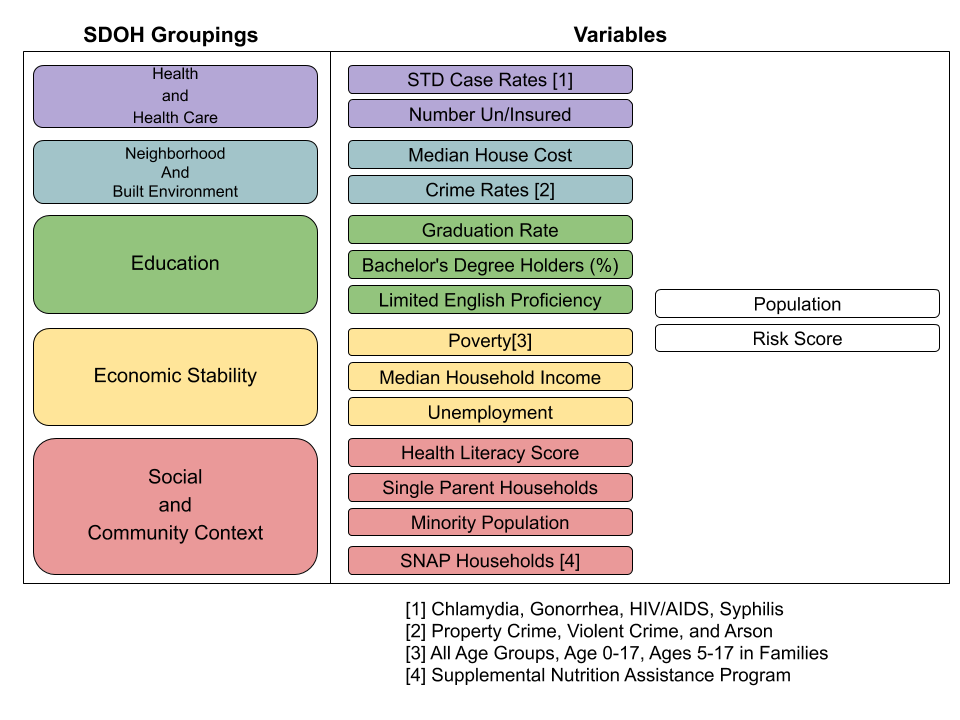
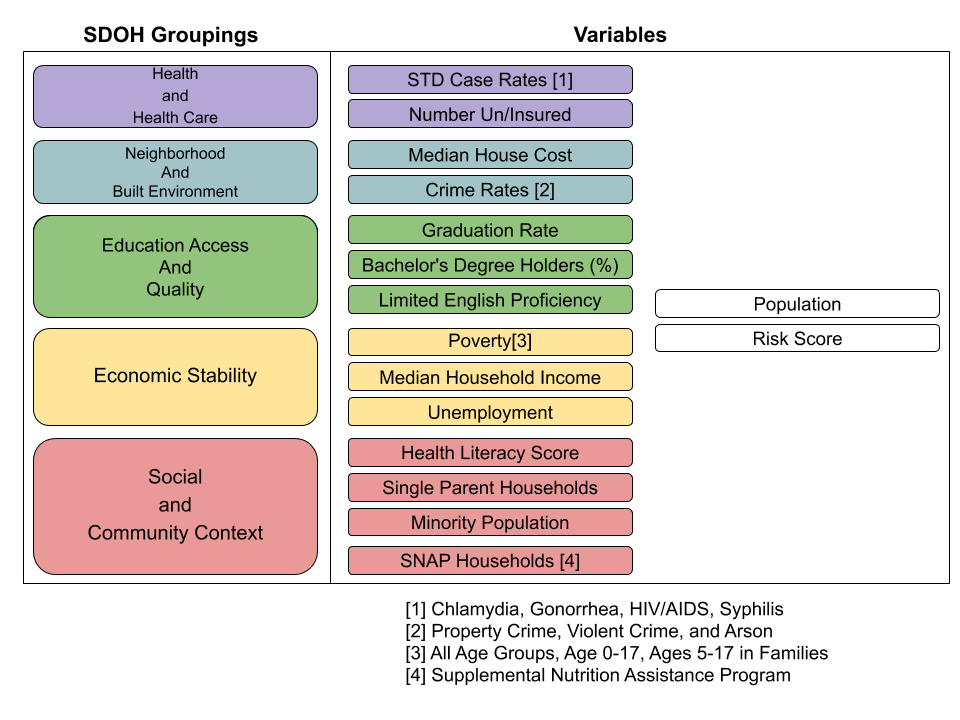
Updated dashboard and about page

Changed region(s): [[0.0312, 0.3361, 0.3438, 0.4583]]

diff --git a/data.html b/data.html
@@ -70,11 +70,11 @@
       <div class="col-md-4 mb-5">
         <div class="card h-100">
           <div class="card-body">
-            <h2 class="card-title">Education</h2>
+            <h2 class="card-title">Education Access and Quality</h2>
             <p class="card-text">The connection of education to health and wellbeing. This domain includes key issues such as graduating from high school, enrollment in higher education, educational attainment in general, language and literacy, and early childhood education and development.</p>
           </div>
           <div class="card-footer">
-            <a href="#" class="btn btn-primary btn-sm">More Info</a>
+            <a href="https://health.gov/healthypeople/objectives-and-data/browse-objectives/education-access-and-quality" class="btn btn-primary btn-sm">More Info</a>
           </div>
         </div>
       </div>
@@ -87,7 +87,7 @@
             <p class="card-text">The connection between characteristics of the contexts within which people live, learn, work, and play, and their health and wellbeing. This includes topics like cohesion within a community, civic participation, discrimination, conditions in the workplace, and incarceration.</p>
           </div>
           <div class="card-footer">
-            <a href="#" class="btn btn-primary btn-sm">More Info</a>
+            <a href="https://health.gov/healthypeople/objectives-and-data/browse-objectives/social-and-community-context" class="btn btn-primary btn-sm">More Info</a>
           </div>
         </div>
       </div>
@@ -104,7 +104,7 @@
             <p class="card-text">The connection between the financial resources people have – income, cost of living, and socioeconomic status – and their health. This area includes key issues such as poverty, employment, food security, and housing stability.</p>
         </div>
                       <div class="card-footer">
-            <a href="#" class="btn btn-primary btn-sm">More Info</a>
+            <a href="https://health.gov/healthypeople/objectives-and-data/browse-objectives/economic-stability" class="btn btn-primary btn-sm">More Info</a>
           </div>
         </div>
         </div>
@@ -116,7 +116,7 @@
             <p class="card-text">The connection between where a person lives – housing, neighborhood, and environment – and their health and wellbeing. This includes topics like quality of housing, access to transportation, availability of healthy foods, air and water quality, and neighborhood crime and violence.</p>
         </div>
                       <div class="card-footer">
-            <a href="#" class="btn btn-primary btn-sm">More Info</a>
+            <a href="https://health.gov/healthypeople/objectives-and-data/browse-objectives/neighborhood-and-built-environment" class="btn btn-primary btn-sm">More Info</a>
           </div>
         </div>
         </div>
@@ -145,7 +145,7 @@
     <tr>
       <th scope="row">Population</th>
       <td colspan="4">Census, July 1, 2019.</td>
-      <td><a href="https://www.census.gov/data/datasets/time-series/demo/popest/2010s-counties-total.html">Link</a></td>
+      <td><a href="https://www.census.gov/data/datasets/time-series/demo/popest/2010s-counties-total.html" class="btn btn-outline-secondary">Link</a></td>
     </tr>  
   </tbody>
 
@@ -155,12 +155,12 @@
    <tr>
       <th scope="row">Unemployment</th>
       <td colspan="4">Unemployment rate, not seasonally adjusted for 2019 annual report.</td>
-      <td><a href="https://data.bls.gov/lausmap/showMap.jsp;jsessionid=DE5A3D22A134FBFC528FD1014C9EA715._t3_06v" class="btn btn-outline-secondary"></a></td>
+      <td><a href="https://data.bls.gov/lausmap/showMap.jsp;jsessionid=DE5A3D22A134FBFC528FD1014C9EA715._t3_06v" class="btn btn-outline-secondary">Link</a></td>
     </tr>   
       <tr>
       <th scope="row">Uninsured</th>
       <td colspan="4">Percentage of population under age 65 without health insurance.</td>
-      <td><a href="https://www.countyhealthrankings.org/app/virginia/2020/measure/factors/85/data?sort=desc-3" class="btn btn-outline-secondary">&nbsp;</a></td>
+      <td><a href="https://www.countyhealthrankings.org/app/virginia/2020/measure/factors/85/data?sort=desc-3" class="btn btn-outline-secondary">Link</a></td>
     </tr>
       
     <tr>
@@ -243,12 +243,7 @@ The Virginia On-Time Graduation Rate defines graduates as students who earn Adva
     </div>
     <!-- /.row -->
 
-    <!-- Call to Action Well -->
-    <div class="card text-white bg-secondary my-5 py-4 text-center">
-      <div class="card-body">
-        <p class="text-white m-0">The key to understanding yourself is to understand your community!</p>
-      </div>
-    </div>
+
 
     <!-- Content Row -->
 

diff --git a/about.html b/about.html
@@ -52,9 +52,8 @@
 
   <!-- Page Content -->
   <div class="container">
-      <h2>(COMMUNITY RESOURCES) </h2>
-      <p> Link various SNAP resources, education tutoring, etc.</p>
-      <p>http://vafoodbanks.wpengine.com/virginia-food-bank-locator/ </p>
+      <h2>Goals</h2>
+      <p>The objective of this webpage is to allow users to see a simple visualization. The accompanying dashboard allowing visitors to compare various information across Virginia counties.</p>
     <!-- Call to Action Well -->
     <div class="card text-white bg-secondary my-5 py-4 text-center">
       <div class="card-body">
@@ -62,7 +61,7 @@
       </div>
     </div>
 
-   
+   <img src="RVA.jpg" a href="https://unsplash.com/photos/TZUAQH7ACe4" class="img-fluid" alt="Responsive image">
 
 
   </div>
@@ -71,7 +70,7 @@
   <!-- Footer -->
   <footer class="py-5 bg-dark">
     <div class="container">
-       <p class="m-0 text-center text-white"> (FOOTER INFO) Healthcare Hokies 2020</p> 
+       <p class="m-0 text-center text-white"></p> 
     </div>
     <!-- /.container -->
   </footer>
